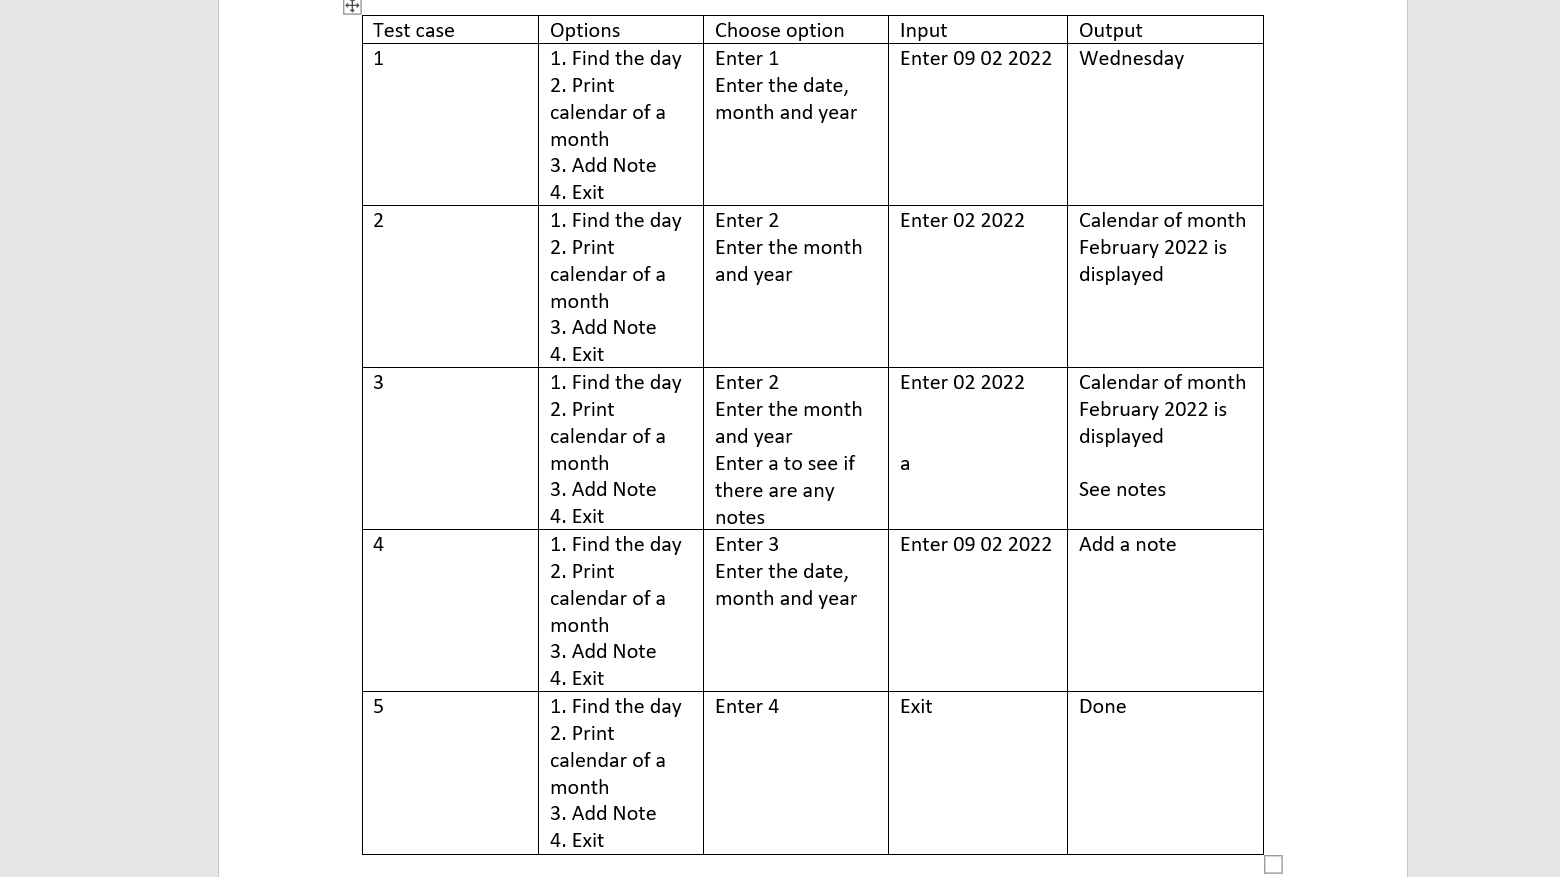
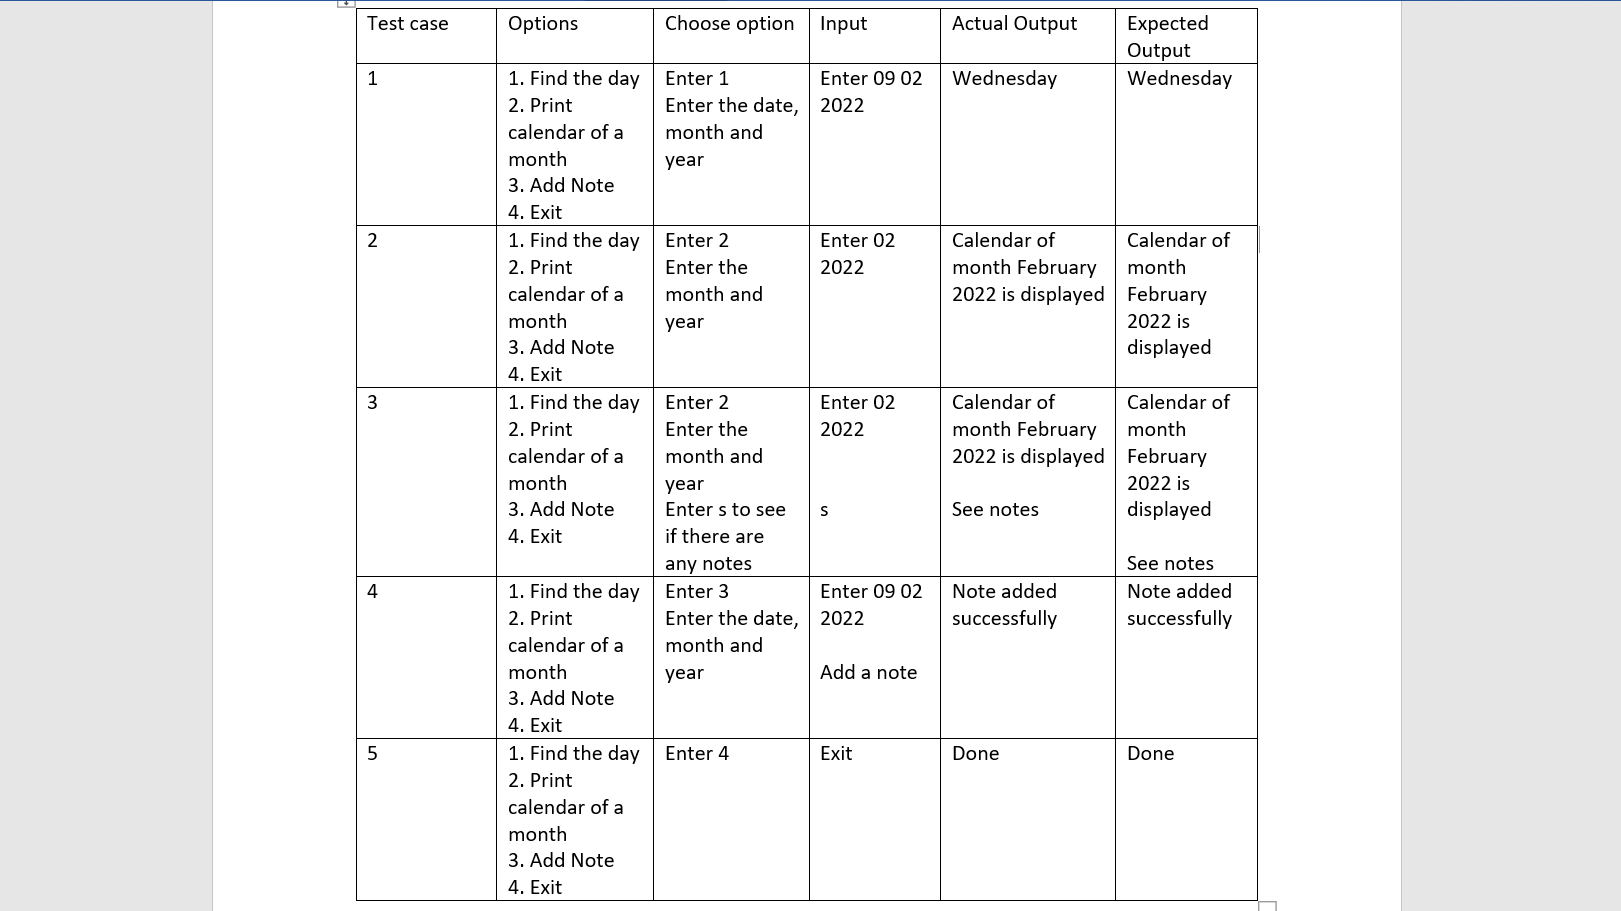
update

diff --git a/3_Implementation/code.c b/3_Implementation/code.c
@@ -1,39 +1,54 @@
-/**
- * @file Calendar.c
- * @author your name (you@domain.com)
- * @brief 
- * @version 0.1
- * @date 2022-02-11
- * 
- * @copyright Copyright (c) 2022
- * 
- */
 #include <stdio.h>
 #include "stdio.h"
+#include "stdlib.h"
 #include <stdlib.h>
-#include <calendar_func.h>
-#include "calendar_func.h"
 
-int main(int argc, char* argv[]){
+int LeapYear(int year);        
+int leapYears(int year);         
+int todayOf(int y, int m, int d); 
+long days(int y, int m, int d);   
+void calendar(int y, int m);       
+int getDayNumber(int d,int m,int y);
+char *getName(int day);
+
+void flush()
+{
+    int c;
+    while ((c = getchar()) != '\n' && c != EOF);
+}
+
+typedef struct 
+{
+  int day;
+  int month;
+  int year;
+  char note[255];
+} Note;
+
+int main(int argc, char* argv[])
+{
     int year,month, day;
     char choice;
     Note note;
     FILE *fp;
 
     fp = fopen("note.bin", "r");
-    if (fp == NULL) {
-      fp = fopen("note.bin", "w");
-    }
+    if (fp == NULL)
+     {
+       fp = fopen("note.bin", "w");
+     }
     fclose(fp);
 
-    while(1) {
+    while(1)
+     {
       printf("1. Find the day\n");
       printf("2. Print the calendar of a month\n");
       printf("3. Add a Note\n");
       printf("4. Exit\n");
       printf("Enter your choice: ");
       scanf("\n%c", &choice);
-      switch(choice) {
+      switch(choice) 
+      {
         case '1':
         printf("Enter the day, month and year: ");
         scanf("%d %d %d", &day, &month, &year);
@@ -72,6 +87,35 @@ int main(int argc, char* argv[]){
     return 0;
 }
 
+// True if leap year
+int LeapYear(int y)
+{
+    return(y % 400 == 0) || ((y % 4 == 0) && (y % 100 != 0));
+}
+
+// The number of leap year 
+int leapYears(int y)
+{
+    return y/4 - y/100 + y/400;
+}
+
+// The number of days since the beginning of the year
+int todayOf(int y, int m, int d)
+ {
+    static int DayOfMonth[] =
+        { -1,0,31,59,90,120,151,181,212,243,273,304,334};
+    return DayOfMonth[m] + d + ((m>2 && LeapYear(y))? 1 : 0);
+}
+
+// Total number of days
+long days(int y, int m, int d)
+{
+    int lastYear;
+    lastYear = y - 1;
+    return 365L * lastYear + leapYears(lastYear) + todayOf(y,m,d);
+}
+
+// display calendar at m y
 void calendar(int y, int m)
 {
     FILE *fp;
@@ -92,17 +136,20 @@ void calendar(int y, int m)
 
     fp = fopen("note.bin", "rb");
     len = 0;
-    while(fread(&note, sizeof(Note), 1, fp)) {
-      if (note.year == y && note.month == m) {
+    while(fread(&note, sizeof(Note), 1, fp))
+     {
+      if (note.year == y && note.month == m)
+       {
         len++;
-      }
-    }
+       }
+     }
     rewind(fp);
     j = 0;
     notes = (Note*) malloc (sizeof(Note) * len);
-    while(fread(&note, sizeof(Note), 1, fp))
-     {
-      if (note.year == y && note.month == m) {
+    while(fread(&note, sizeof(Note), 1, fp)) 
+    {
+      if (note.year == y && note.month == m)
+      {
         notes[j] = note;
         j++;
       }
@@ -116,16 +163,20 @@ void calendar(int y, int m)
 
     for(i=0;i<weekOfTopDay;i++)
         printf("   ");
-    for(i=weekOfTopDay,day=1;day <= DayOfMonth[m];i++,day++){
+    for(i=weekOfTopDay,day=1;day <= DayOfMonth[m];i++,day++)
+    {
         int hasNote = 0;
-        for (j = 0; j < len; j++) {
-          if (notes[j].day == day) {
+        for (j = 0; j < len; j++)
+        {
+          if (notes[j].day == day) 
+          {
             printf("|%2d| ",day);
             hasNote = 1;
             break;
           }
         }
-        if (hasNote == 0) {
+        if (hasNote == 0)
+        {
           printf("%2d   ",day);
         }
         if(i % 7 == 6)
@@ -138,10 +189,32 @@ void calendar(int y, int m)
       for (j = 0; j < len; j++) {
         printf("%d: %s\n", notes[j].day, notes[j].note);
       }
-    } else {
-      return;
     }
+     else
+     {
+      return;
+     }
+}
+// 
+int getDayNumber(int d, int m, int y)
+{ //retuns the day number
+    static int t[] = {0, 3, 2, 5, 0, 3, 5, 1, 4, 6, 2, 4};
+    y -= m < 3;
+    return (y + y/4 - y/100 + y/400 + t[m-1] + d) % 7;
 }
 
-
+char *getName(int day)
+{ //returns the name of the day
+   switch(day)
+   {
+      case 0 :return("Sunday");
+      case 1 :return("Monday");
+      case 2 :return("Tuesday");
+      case 3 :return("Wednesday");
+      case 4 :return("Thursday");
+      case 5 :return("Friday");
+      case 6 :return("Saturday");
+      default:return("Error: Invalid Argument Passed");
+   }
+}
 

diff --git a/3_Implementation/src/calendar_func.c b/3_Implementation/src/calendar_func.c
@@ -1,3 +1,13 @@
+/**
+ * @file calendar_func.c
+ * @author your name (vnsowmya6@domain.com)
+ * @brief Calendar application
+ * @version 0.1
+ * @date 2022-02-11
+ * 
+ * @copyright Copyright (c) 2022
+ * 
+ */
 #include <calendar_func.h>
 
 int LeapYear( int y )
@@ -10,16 +20,36 @@ int leapYears( int y )
     return y/4 - y/100 + y/400;
 }
 
-int todayOf( int y, int m, int d) 
-{
+int todayOf( int y, int m, int d)
+ {
+    static int DayOfMonth[] =
+        { -1,0,31,59,90,120,151,181,212,243,273,304,334};
     return DayOfMonth[m] + d + ((m>2 && LeapYear(y))? 1 : 0);
 }
 
 long days( int y, int m, int d)
 {
+    int lastYear;
+    lastYear = y - 1;
     return 365L * lastYear + leapYears(lastYear) + todayOf(y,m,d);
 }
 int getDayNumber(int d, int m, int y)
-{ 
+{ //retuns the day number
+    static int t[] = {0, 3, 2, 5, 0, 3, 5, 1, 4, 6, 2, 4};
+    y -= m < 3;
     return (y + y/4 - y/100 + y/400 + t[m-1] + d) % 7;
+}
+
+char *getName(int day)
+{ //returns the name of the day
+   switch(day){
+      case 0 :return("Sunday");
+      case 1 :return("Monday");
+      case 2 :return("Tuesday");
+      case 3 :return("Wednesday");
+      case 4 :return("Thursday");
+      case 5 :return("Friday");
+      case 6 :return("Saturday");
+      default:return("Error: Invalid Argument Passed");
+   }
 }

diff --git a/3_Implementation/code.h b/3_Implementation/code.h
@@ -15,6 +15,7 @@
 #include <stdlib.h>
 #include <stdio_ext.h>
 
+
 typedef struct {
   int day;
   int month;

diff --git a/6_ImagesandVideos/README.md b/6_ImagesandVideos/README.md
@@ -1,14 +1,30 @@
-## Testcase 1 result
+# Briefing on each test cases:
+ ## Testcase 1 result
+   1. Choose 1
+    * Enter the day, month and year: For ex: 09-02-2022 is entered then you will get the output as The day is : Wednesday
+
 [![Testcase1](https://github.com/sowmyavnaik/sowmyavnaik-M1_ProjectGoal_Application/blob/main/6_ImagesandVideos/Testcase%201.png)]
 
 ## Testcase 2 result
+ 2. Choose 2
+  * Enter the month and year:Enter 02 2022 then the ouput will be a calendar of month february
+  * Please enter 's' to see the notes: By entering s you will get the notes or remainder if added any
 [![Testcase1](https://github.com/sowmyavnaik/sowmyavnaik-M1_ProjectGoal_Application/blob/main/6_ImagesandVideos/Testcase%202.png)]
-
+ 
 ## Testcase 3 result
+ 3. Choose 3
+  * Enter the day, month and year: Enter 09 02 2022.
+  * Enter the note: Project submission.- Note added successfully
 [![Testcase1](https://github.com/sowmyavnaik/sowmyavnaik-M1_ProjectGoal_Application/blob/main/6_ImagesandVideos/Testcase%203.png)]
 
 ## Testcase 4 result
+ 4. Choose 3
+  * Enter the day, month and year: Enter 09 02 2022.
+  * Enter the note: Project submission.- Note added successfully
 [![Testcase1](https://github.com/sowmyavnaik/sowmyavnaik-M1_ProjectGoal_Application/blob/main/6_ImagesandVideos/Testcase%204.png)]
 
 ## Testcase 5 result
+ 5. Choose 4
+   * Exit
+   * Displays a message Done!!
 [![Testcase1](https://github.com/sowmyavnaik/sowmyavnaik-M1_ProjectGoal_Application/blob/main/6_ImagesandVideos/Testcase%205.png)]

diff --git a/README.md b/README.md
@@ -3,3 +3,10 @@
 
 * Calendar is a project in C that can help in order to understand the basic concepts of functions, file handling and data structure. The objective of calendar is to find the day of the week for a given date, month and year, add notes by giving date, month and year as input, print a calendar of particular month by giving month and year as input and checking if there are any notes for that month.
 
+## Codiga
+  <a href="https://app.codiga.io/public/user/github/sowmyavnaik">
+   <img src="https://api.codiga.io/public/badge/user/github/sowmyavnaik?style=light" alt="codiga badge" />
+   [![Codacy Badge](https://api.codiga.io/project/31018/status/svg)]
+
+## Codacy
+  [![Codacy Badge](https://app.codacy.com/project/badge/Grade/9ddc8368d3e843208bafec13dfec4147)](https://www.codacy.com/gh/sowmyavnaik/sowmyavnaik-M1_ProjectGoal_Application/dashboard?utm_source=github.com&amp;utm_medium=referral&amp;utm_content=sowmyavnaik/sowmyavnaik-M1_ProjectGoal_Application&amp;utm_campaign=Badge_Grade)]

diff --git a/0_Certificates/README.md b/0_Certificates/README.md
@@ -14,6 +14,7 @@
  ## Codiga
   <a href="https://app.codiga.io/public/user/github/sowmyavnaik">
    <img src="https://api.codiga.io/public/badge/user/github/sowmyavnaik?style=light" alt="codiga badge" />
+   [![Codacy Badge](https://api.codiga.io/project/31018/status/svg)]
 
  ## Codacy
-  [![Codacy Badge](https://app.codacy.com/project/badge/Grade/9ddc8368d3e843208bafec13dfec4147)](https://www.codacy.com/gh/sowmyavnaik/sowmyavnaik-M1_ProjectGoal_Application/dashboard?utm_source=github.com&amp;utm_medium=referral&amp;utm_content=sowmyavnaik/sowmyavnaik-M1_ProjectGoal_Application&amp;utm_campaign=Badge_Grade)
+  [![Codacy Badge](https://app.codacy.com/project/badge/Grade/9ddc8368d3e843208bafec13dfec4147)](https://www.codacy.com/gh/sowmyavnaik/sowmyavnaik-M1_ProjectGoal_Application/dashboard?utm_source=github.com&amp;utm_medium=referral&amp;utm_content=sowmyavnaik/sowmyavnaik-M1_ProjectGoal_Application&amp;utm_campaign=Badge_Grade)]

diff --git a/2_Architecture/README.md b/2_Architecture/README.md
@@ -7,4 +7,4 @@
  [![Architecture](https://github.com/sowmyavnaik/sowmyavnaik-M1_ProjectGoal_Application/blob/main/2_Architecture/Architecture.png)]
 
 ## Behavioral diagram
-[![Behavioral diagram](https://github.com/sowmyavnaik/sowmyavnaik-M1_ProjectGoal_Application/blob/main/2_Architecture/Architecture.png)]
+[![Behavioral diagram](https://github.com/sowmyavnaik/sowmyavnaik-M1_ProjectGoal_Application/blob/main/2_Architecture/Behavioral%20diagram.png)]

diff --git a/5_Report/README.md b/5_Report/README.md
@@ -1,0 +1,1 @@
+Reference source:https://www.codewithc.com/mini-project-in-c-calendar/
